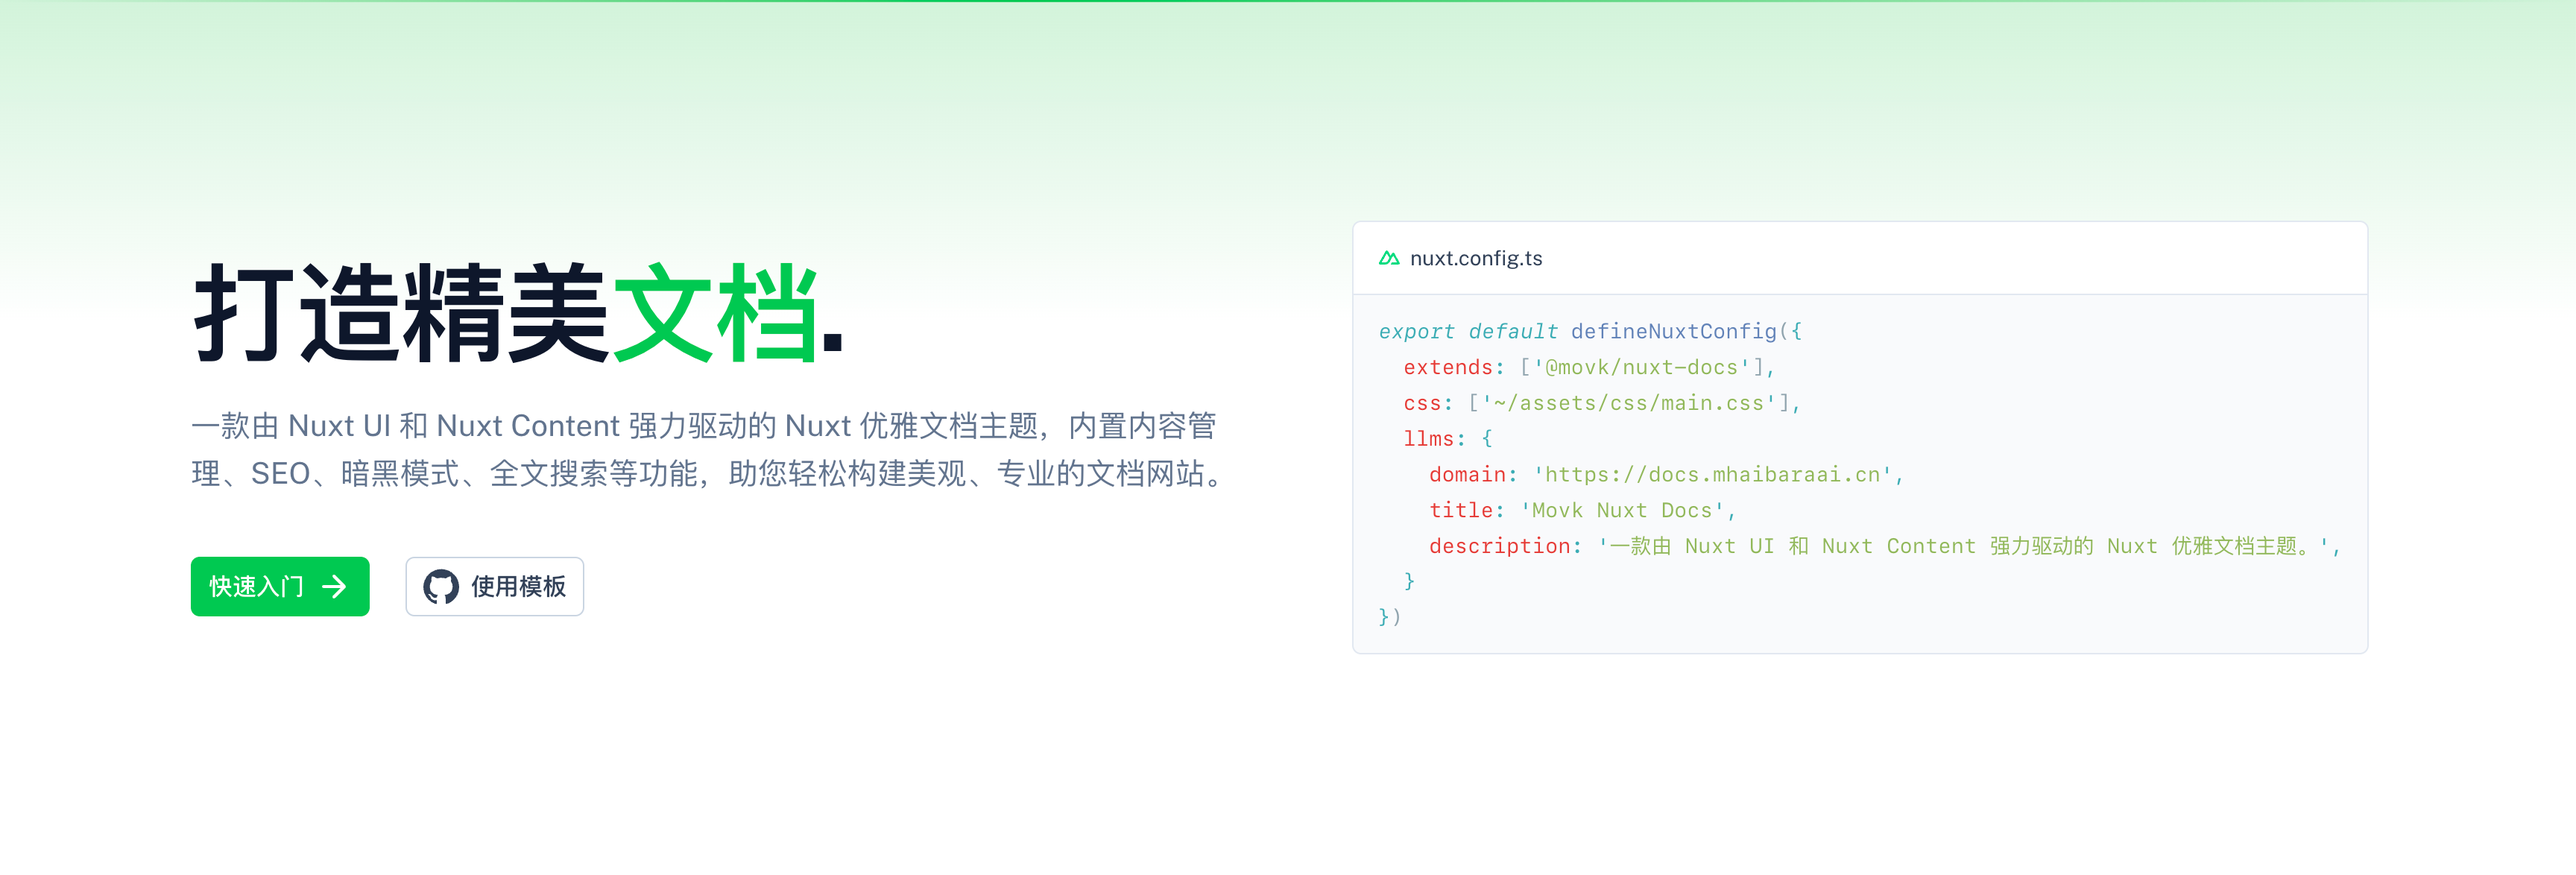
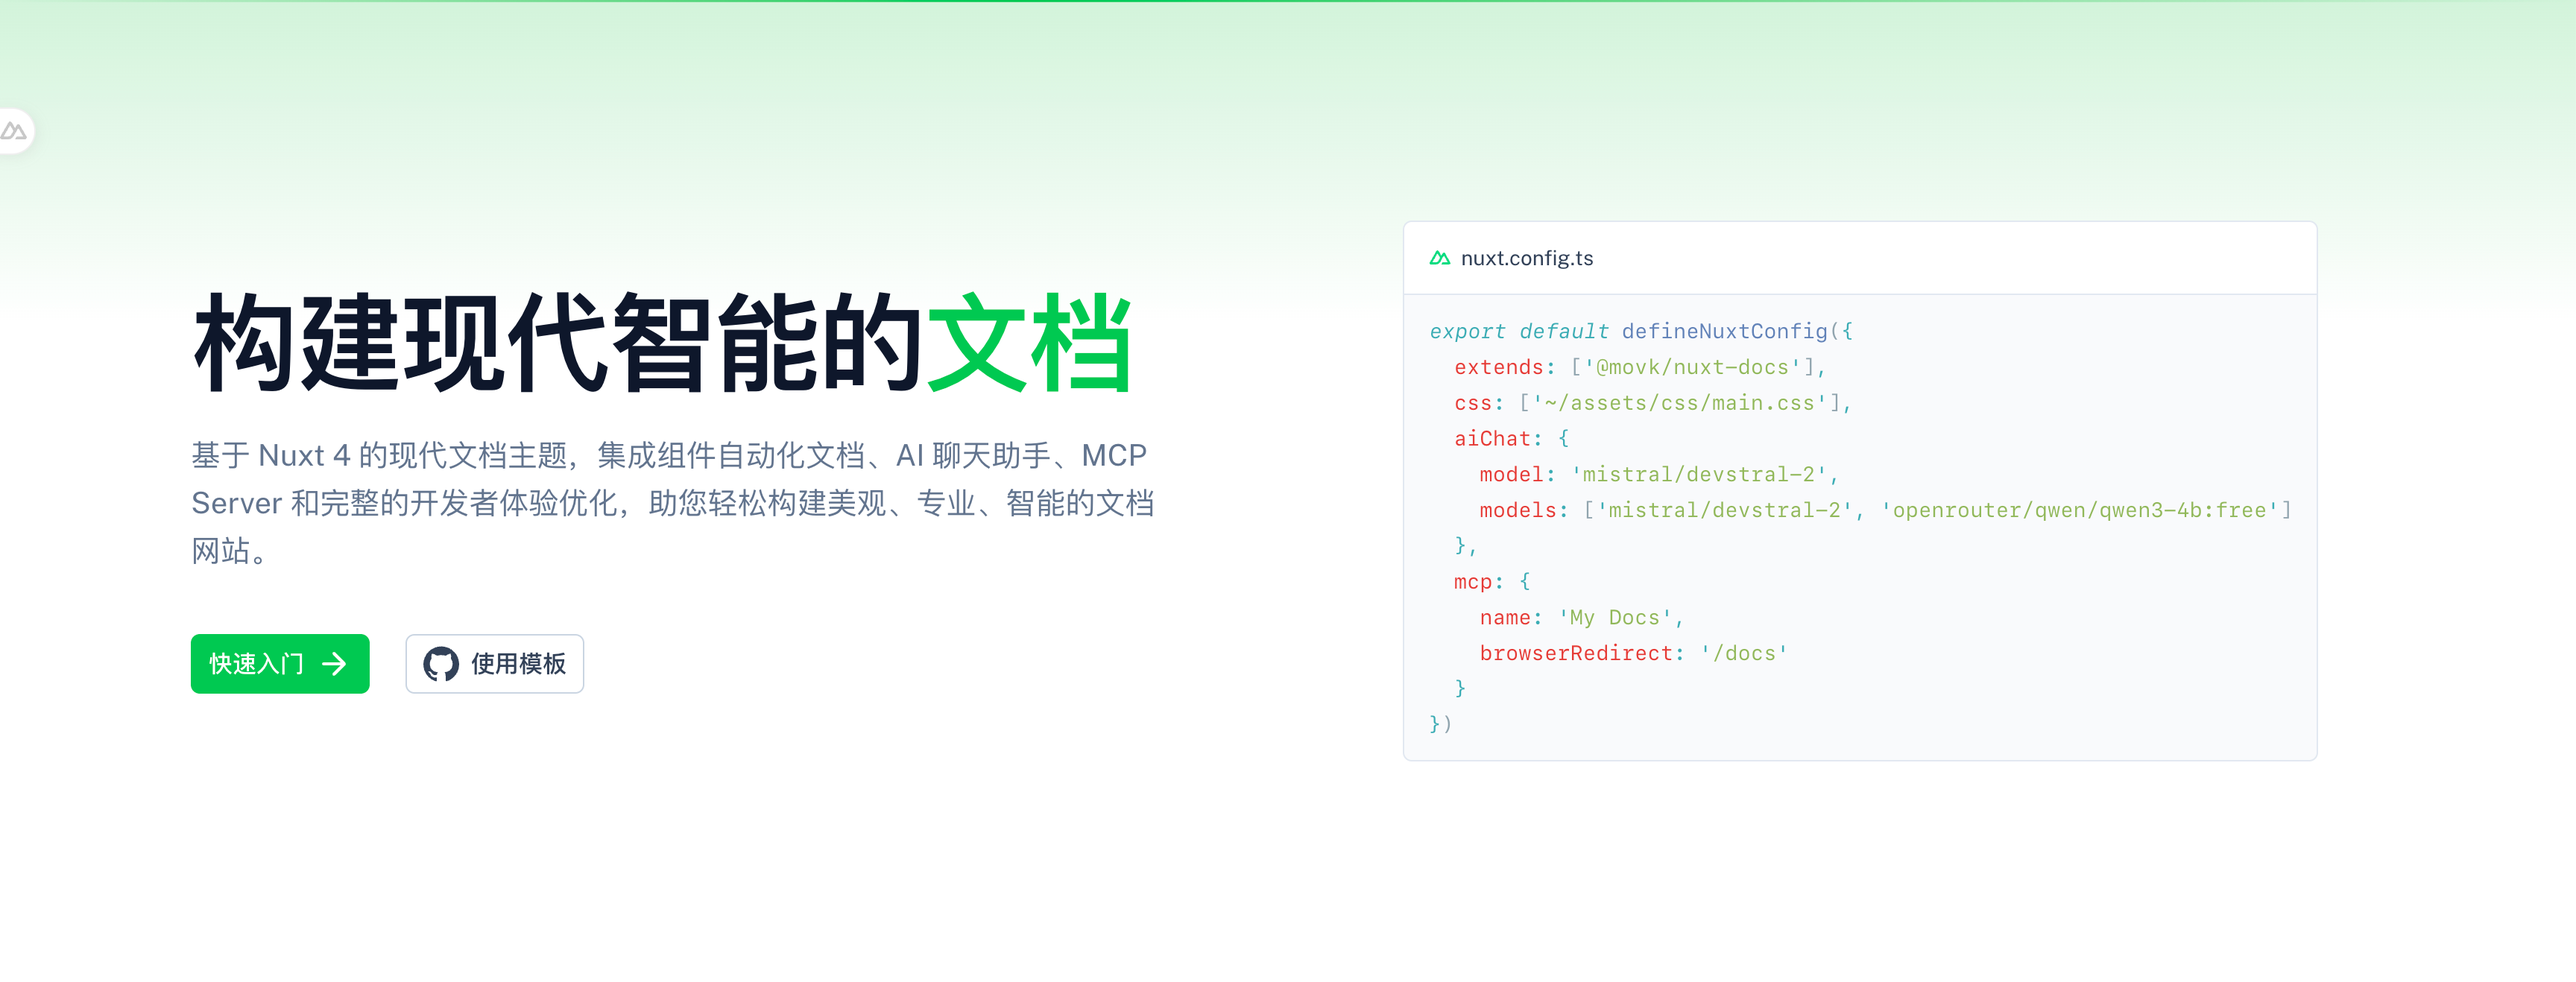
docs: 更新项目文档和配置说明
- 更新 README 功能特性说明(AI 集成/自动化文档生成)
- 更新 layer README 和 package.json
- 更新 docs 项目的 useCategory/useHeader composables
- 更新 nuxt.config 配置示例
- 更新组件导航配置
- 更新 OG 图片和公共资源

diff --git a/docs/nuxt.config.ts b/docs/nuxt.config.ts
@@ -18,9 +18,9 @@ export default defineNuxtConfig({
   },
   routeRules: {
     '/docs': { redirect: '/docs/getting-started', prerender: false },
-    '/docs/essentials': { redirect: '/docs/essentials/markdown-syntax', prerender: false },
-    '/docs/components': { redirect: '/docs/components/component-props', prerender: false },
-    '/docs/composables': { redirect: '/docs/composables/define-locale', prerender: false }
+    '/docs/typography': { redirect: '/docs/typography/markdown-syntax', prerender: false },
+    '/docs/components': { redirect: '/docs/components/commit-changelog', prerender: false },
+    '/docs/composables': { redirect: '/docs/composables/fetch-component-example', prerender: false }
   },
   compatibilityDate: 'latest',
   aiChat: {
@@ -36,10 +36,24 @@ export default defineNuxtConfig({
   llms: {
     domain: 'https://docs.mhaibaraai.cn',
     title: 'Movk Nuxt Docs',
-    description: '一款由 Nuxt UI 和 Nuxt Content 强力驱动的 Nuxt 优雅文档主题。',
+    description: '基于 Nuxt 4 的现代文档主题，集成组件自动化文档、AI 聊天助手、MCP Server 和完整的开发者体验优化。',
+    notes: [
+      'Nuxt 4',
+      'Nuxt UI',
+      'Nuxt Content',
+      'LLM 集成',
+      '文档主题',
+      '组件自动化文档',
+      'AI 聊天助手',
+      'MCP Server',
+      'MDC 语法',
+      'SEO 优化',
+      '暗黑模式',
+      '全文搜索'
+    ],
     full: {
-      title: 'Movk Nuxt Docs - 优雅的 Nuxt 文档主题',
-      description: '一款由 Nuxt UI 和 Nuxt Content 强力驱动的 Nuxt 优雅文档主题，内置内容管理、SEO、暗黑模式、全文搜索等功能，助您轻松构建美观、专业的文档网站。'
+      title: 'Movk Nuxt Docs - 现代化 Nuxt 文档主题',
+      description: '一款由 Nuxt UI 和 Nuxt Content 强力驱动的 Nuxt 优雅文档主题，内置组件文档自动生成、AI 聊天助手、MCP Server 支持、SEO 优化、暗黑模式、全文搜索等功能，助您轻松构建美观、专业、智能的文档网站。'
     }
   },
   mcp: {

diff --git a/docs/app/composables/useHeader.ts b/docs/app/composables/useHeader.ts
@@ -11,18 +11,18 @@ export function useHeader() {
   }])
 
   const mobileLinks = computed(() => [{
-    label: '快速开始',
+    label: 'Getting Started',
     icon: 'i-lucide-square-play',
     to: '/docs/getting-started',
     active: route.path.startsWith('/docs/getting-started')
   }, {
-    label: '基础',
-    icon: 'i-lucide-book-open',
-    to: '/docs/essentials',
-    active: route.path.startsWith('/docs/essentials')
+    label: 'Typography',
+    icon: 'i-lucide-square-pilcrow',
+    to: '/docs/typography',
+    active: route.path.startsWith('/docs/typography')
   }, {
     label: 'Components',
-    icon: 'i-lucide-square-function',
+    icon: 'i-lucide-component',
     to: '/docs/components',
     active: route.path.startsWith('/docs/components')
   }, {

diff --git a/docs/app/composables/useCategory.ts b/docs/app/composables/useCategory.ts
@@ -11,18 +11,6 @@ export function useCategory() {
         title: 'AI 集成',
         icon: 'i-lucide-bot'
       }
-    ],
-    'components': [
-      {
-        id: 'components',
-        title: 'Components',
-        icon: 'i-lucide-layout-dashboard'
-      },
-      {
-        id: 'example',
-        title: 'Example',
-        icon: 'i-lucide-box'
-      }
     ]
   }
   return {

diff --git a/layer/README.md b/layer/README.md
@@ -1,13 +1,13 @@
-[![Movk Nuxt Docs](https://docs.mhaibaraai.cn/__og-image__/static/og.png)](https://docs.mhaibaraai.cn/)
+[![Movk Nuxt Docs](https://docs.mhaibaraai.cn/og-image.png)](https://docs.mhaibaraai.cn/)
 
-> 一款由 Nuxt UI 和 Nuxt Content 强力驱动的优雅文档主题
+> 基于 Nuxt 4 的现代文档主题，集成组件自动化文档、AI 聊天助手、MCP Server 和完整的开发者体验优化
 
 [![npm version][npm-version-src]][npm-version-href]
 [![npm downloads][npm-downloads-src]][npm-downloads-href]
 [![License][license-src]][license-href]
 [![Nuxt][nuxt-src]][nuxt-href]
 
-使用此主题可以快速构建美观、专业的文档网站，内置内容管理、SEO、暗黑模式、全文搜索等功能。
+使用此主题可以快速构建美观、专业、智能的文档网站，内置组件文档自动生成、AI 聊天助手、MCP Server 支持、SEO 优化、暗黑模式、全文搜索等功能。
 
 - 📖 [在线文档](https://docs.mhaibaraai.cn/)
 
@@ -15,18 +15,30 @@
 
 此主题集成了一系列旨在优化文档管理体验的强大功能：
 
+### 🤖 AI 增强体验
+
+- **AI 聊天助手** - 内置智能文档助手，基于 Vercel AI SDK 支持多种 LLM 模型（Mistral、Qwen、OpenRouter）
+- **MCP Server 支持** - 集成 Model Context Protocol 服务器，为 AI 助手提供结构化的文档访问能力
+- **LLM 优化** - 通过 `nuxt-llms` 模块自动生成 `llms.txt` 和 `llms-full.txt`，为 AI 工具提供优化的文档索引
+- **流式响应** - 支持 AI 响应流式输出和代码高亮，配合 `shiki-stream` 实现实时语法高亮渲染
+
+### 🧩 自动化文档生成
+
+- **组件元数据自动提取** - 基于 `nuxt-component-meta` 自动提取 Vue 组件的 Props、Slots、Emits 定义
+- **交互式示例展示** - 通过 `ComponentExample` 组件自动加载和渲染组件示例，支持代码高亮和实时预览
+- **Git 提交历史集成** - 使用 `CommitChangelog` 和 `PageLastCommit` 组件自动展示文件的提交历史记录
+- **类型定义高亮** - 智能解析 TypeScript 类型定义，支持内联类型高亮和类型导航
+
+### 🎨 开发者体验
+
 - ⚡ **基于 Nuxt 4** - 充分利用最新的 Nuxt 框架，实现卓越性能
 - 🎨 **采用 Nuxt UI** - 集成全面的 UI 组件库，开箱即用
-- 📝 **MDC 语法增强** - 支持 Markdown 与 Vue 组件的无缝集成，实现动态内容
-- 🧩 **组件文档自动生成** - 自动生成 Props、Slots、Emits 文档及交互式示例
-- 📦 **Git 提交历史集成** - 通过 CommitChangelog 组件自动展示文件的提交历史记录
-- 📚 **智能侧边栏导航** - 根据内容结构自动生成导航
-- 🔍 **全文搜索** - 内置强大的全文搜索功能
+- 📝 **MDC 语法增强** - 支持 Markdown 与 Vue 组件的无缝集成
+- 🔍 **全文搜索** - 基于 Nuxt Content 的 `ContentSearch` 组件，支持键盘快捷键（⌘K）
 - 🌙 **暗黑模式** - 支持亮色/暗色主题切换
 - 📱 **响应式设计** - 移动优先的响应式布局
 - 🚀 **SEO 优化** - 内置 SEO 优化功能
 - 🎯 **TypeScript 支持** - 完整的 TypeScript 类型支持
-- 🤖 **AI 助手优化** - 为 LLM 优化，提供更好的 AI 辅助文档体验
 
 ## 🚀 快速开始
 
@@ -80,10 +92,19 @@ pnpm add @movk/nuxt-docs better-sqlite3
 export default defineNuxtConfig({
   extends: ['@movk/nuxt-docs'],
   css: ['~/assets/css/main.css'],
+  aiChat: {
+    model: 'mistral/devstral-2',
+    models: ['mistral/devstral-2', 'openrouter/qwen/qwen3-4b:free']
+  },
+  mcp: {
+    name: 'My Docs',
+    browserRedirect: '/docs'
+  },
   llms: {
-    domain: 'https://docs.mhaibaraai.cn',
-    title: 'Movk Nuxt Docs',
-    description: '一款优雅的 Nuxt 文档主题'
+    domain: 'https://your-domain.com',
+    title: 'My Docs',
+    description: '基于 Movk Nuxt Docs 构建的智能文档站点',
+    notes: ['Nuxt 4', '文档主题', 'TypeScript']
   }
 })
 ```
@@ -129,7 +150,7 @@ movk-nuxt-docs/
 
 ### 基础 Markdown
 
-```md
+```md [md]
 ---
 title: 页面标题
 description: 页面描述
@@ -147,7 +168,7 @@ description: 页面描述
 
 ### MDC 语法
 
-```md
+```md [md]
 ::card
 ---
 title: 卡片标题
@@ -158,14 +179,6 @@ icon: i-lucide-rocket
 ```
 
 了解更多关于 MDC 语法，请查看 [Nuxt Content 文档](https://content.nuxt.com/docs/files/markdown#mdc-syntax)。
-
-### 其他工具
-
-- **Google Analytics** - [@nuxtjs/google-analytics](https://google-analytics.nuxtjs.org/)
-- **Plausible** - [vue-plausible](https://github.com/moritzsternemann/vue-plausible)
-- **Umami** - [nuxt-umami](https://github.com/ijkml/nuxt-umami)
-
-按照各工具的 Nuxt 集成文档在 `plugins` 目录中创建插件即可。
 
 ## 🛠 开发
 
@@ -206,13 +219,27 @@ pnpm release
 
 本项目基于以下优秀的开源项目构建：
 
+### 核心框架
+
 - [Nuxt 4](https://nuxt.com/) - Web 框架
 - [Nuxt Content](https://content.nuxt.com/) - 基于文件的 CMS
 - [Nuxt UI](https://ui.nuxt.com/) - UI 组件库
-- [Nuxt Image](https://image.nuxt.com/) - 图片优化
 - [Tailwind CSS 4](https://tailwindcss.com/) - CSS 框架
+
+### AI 集成
+
+- [Vercel AI SDK](https://sdk.vercel.ai/) - AI 集成框架
+- [Nuxt LLMs](https://github.com/nuxt-content/nuxt-llms) - LLM 优化
+- [@nuxtjs/mcp-toolkit](https://github.com/nuxt-modules/mcp-toolkit) - MCP Server 支持
+- [Shiki](https://shiki.style/) - 代码语法高亮
+- [Shiki Stream](https://github.com/antfu/shiki-stream) - 流式代码高亮
+
+### 功能增强
+
+- [Nuxt Component Meta](https://github.com/nuxt-content/nuxt-component-meta) - 组件元数据提取
+- [Nuxt Image](https://image.nuxt.com/) - 图片优化
 - [Nuxt SEO](https://nuxtseo.com/) - SEO 优化
-- [Nuxt LLMs](https://github.com/nuxt/llms) - AI 助手优化
+- [Octokit](https://github.com/octokit/rest.js) - GitHub API 集成
 
 ## 📖 文档
 

diff --git a/README.md b/README.md
@@ -1,13 +1,13 @@
 [![Movk Nuxt Docs](https://docs.mhaibaraai.cn/og-image.png)](https://docs.mhaibaraai.cn/)
 
-> 一款由 Nuxt UI 和 Nuxt Content 强力驱动的优雅文档主题
+> 基于 Nuxt 4 的现代文档主题，集成组件自动化文档、AI 聊天助手、MCP Server 和完整的开发者体验优化
 
 [![npm version][npm-version-src]][npm-version-href]
 [![npm downloads][npm-downloads-src]][npm-downloads-href]
 [![License][license-src]][license-href]
 [![Nuxt][nuxt-src]][nuxt-href]
 
-使用此主题可以快速构建美观、专业的文档网站，内置内容管理、SEO、暗黑模式、全文搜索等功能。
+使用此主题可以快速构建美观、专业、智能的文档网站，内置组件文档自动生成、AI 聊天助手、MCP Server 支持、SEO 优化、暗黑模式、全文搜索等功能。
 
 - 📖 [在线文档](https://docs.mhaibaraai.cn/)
 
@@ -15,18 +15,30 @@
 
 此主题集成了一系列旨在优化文档管理体验的强大功能：
 
+### 🤖 AI 增强体验
+
+- **AI 聊天助手** - 内置智能文档助手，基于 Vercel AI SDK 支持多种 LLM 模型（Mistral、Qwen、OpenRouter）
+- **MCP Server 支持** - 集成 Model Context Protocol 服务器，为 AI 助手提供结构化的文档访问能力
+- **LLM 优化** - 通过 `nuxt-llms` 模块自动生成 `llms.txt` 和 `llms-full.txt`，为 AI 工具提供优化的文档索引
+- **流式响应** - 支持 AI 响应流式输出和代码高亮，配合 `shiki-stream` 实现实时语法高亮渲染
+
+### 🧩 自动化文档生成
+
+- **组件元数据自动提取** - 基于 `nuxt-component-meta` 自动提取 Vue 组件的 Props、Slots、Emits 定义
+- **交互式示例展示** - 通过 `ComponentExample` 组件自动加载和渲染组件示例，支持代码高亮和实时预览
+- **Git 提交历史集成** - 使用 `CommitChangelog` 和 `PageLastCommit` 组件自动展示文件的提交历史记录
+- **类型定义高亮** - 智能解析 TypeScript 类型定义，支持内联类型高亮和类型导航
+
+### 🎨 开发者体验
+
 - ⚡ **基于 Nuxt 4** - 充分利用最新的 Nuxt 框架，实现卓越性能
 - 🎨 **采用 Nuxt UI** - 集成全面的 UI 组件库，开箱即用
-- 📝 **MDC 语法增强** - 支持 Markdown 与 Vue 组件的无缝集成，实现动态内容
-- 🧩 **组件文档自动生成** - 自动生成 Props、Slots、Emits 文档及交互式示例
-- 📦 **Git 提交历史集成** - 通过 CommitChangelog 组件自动展示文件的提交历史记录
-- 📚 **智能侧边栏导航** - 根据内容结构自动生成导航
-- 🔍 **全文搜索** - 内置强大的全文搜索功能
+- 📝 **MDC 语法增强** - 支持 Markdown 与 Vue 组件的无缝集成
+- 🔍 **全文搜索** - 基于 Nuxt Content 的 `ContentSearch` 组件，支持键盘快捷键（⌘K）
 - 🌙 **暗黑模式** - 支持亮色/暗色主题切换
 - 📱 **响应式设计** - 移动优先的响应式布局
 - 🚀 **SEO 优化** - 内置 SEO 优化功能
 - 🎯 **TypeScript 支持** - 完整的 TypeScript 类型支持
-- 🤖 **AI 助手优化** - 为 LLM 优化，提供更好的 AI 辅助文档体验
 
 ## 🚀 快速开始
 
@@ -80,10 +92,19 @@ pnpm add @movk/nuxt-docs better-sqlite3
 export default defineNuxtConfig({
   extends: ['@movk/nuxt-docs'],
   css: ['~/assets/css/main.css'],
+  aiChat: {
+    model: 'mistral/devstral-2',
+    models: ['mistral/devstral-2', 'openrouter/qwen/qwen3-4b:free']
+  },
+  mcp: {
+    name: 'My Docs',
+    browserRedirect: '/docs'
+  },
   llms: {
-    domain: 'https://docs.mhaibaraai.cn',
-    title: 'Movk Nuxt Docs',
-    description: '一款优雅的 Nuxt 文档主题'
+    domain: 'https://your-domain.com',
+    title: 'My Docs',
+    description: '基于 Movk Nuxt Docs 构建的智能文档站点',
+    notes: ['Nuxt 4', '文档主题', 'TypeScript']
   }
 })
 ```
@@ -129,7 +150,7 @@ movk-nuxt-docs/
 
 ### 基础 Markdown
 
-```md
+```md [md]
 ---
 title: 页面标题
 description: 页面描述
@@ -147,7 +168,7 @@ description: 页面描述
 
 ### MDC 语法
 
-```md
+```md [md]
 ::card
 ---
 title: 卡片标题
@@ -158,14 +179,6 @@ icon: i-lucide-rocket
 ```
 
 了解更多关于 MDC 语法，请查看 [Nuxt Content 文档](https://content.nuxt.com/docs/files/markdown#mdc-syntax)。
-
-### 其他工具
-
-- **Google Analytics** - [@nuxtjs/google-analytics](https://google-analytics.nuxtjs.org/)
-- **Plausible** - [vue-plausible](https://github.com/moritzsternemann/vue-plausible)
-- **Umami** - [nuxt-umami](https://github.com/ijkml/nuxt-umami)
-
-按照各工具的 Nuxt 集成文档在 `plugins` 目录中创建插件即可。
 
 ## 🛠 开发
 
@@ -206,13 +219,27 @@ pnpm release
 
 本项目基于以下优秀的开源项目构建：
 
+### 核心框架
+
 - [Nuxt 4](https://nuxt.com/) - Web 框架
 - [Nuxt Content](https://content.nuxt.com/) - 基于文件的 CMS
 - [Nuxt UI](https://ui.nuxt.com/) - UI 组件库
-- [Nuxt Image](https://image.nuxt.com/) - 图片优化
 - [Tailwind CSS 4](https://tailwindcss.com/) - CSS 框架
+
+### AI 集成
+
+- [Vercel AI SDK](https://sdk.vercel.ai/) - AI 集成框架
+- [Nuxt LLMs](https://github.com/nuxt-content/nuxt-llms) - LLM 优化
+- [@nuxtjs/mcp-toolkit](https://github.com/nuxt-modules/mcp-toolkit) - MCP Server 支持
+- [Shiki](https://shiki.style/) - 代码语法高亮
+- [Shiki Stream](https://github.com/antfu/shiki-stream) - 流式代码高亮
+
+### 功能增强
+
+- [Nuxt Component Meta](https://github.com/nuxt-content/nuxt-component-meta) - 组件元数据提取
+- [Nuxt Image](https://image.nuxt.com/) - 图片优化
 - [Nuxt SEO](https://nuxtseo.com/) - SEO 优化
-- [Nuxt LLMs](https://github.com/nuxt/llms) - AI 助手优化
+- [Octokit](https://github.com/octokit/rest.js) - GitHub API 集成
 
 ## 📖 文档
 
